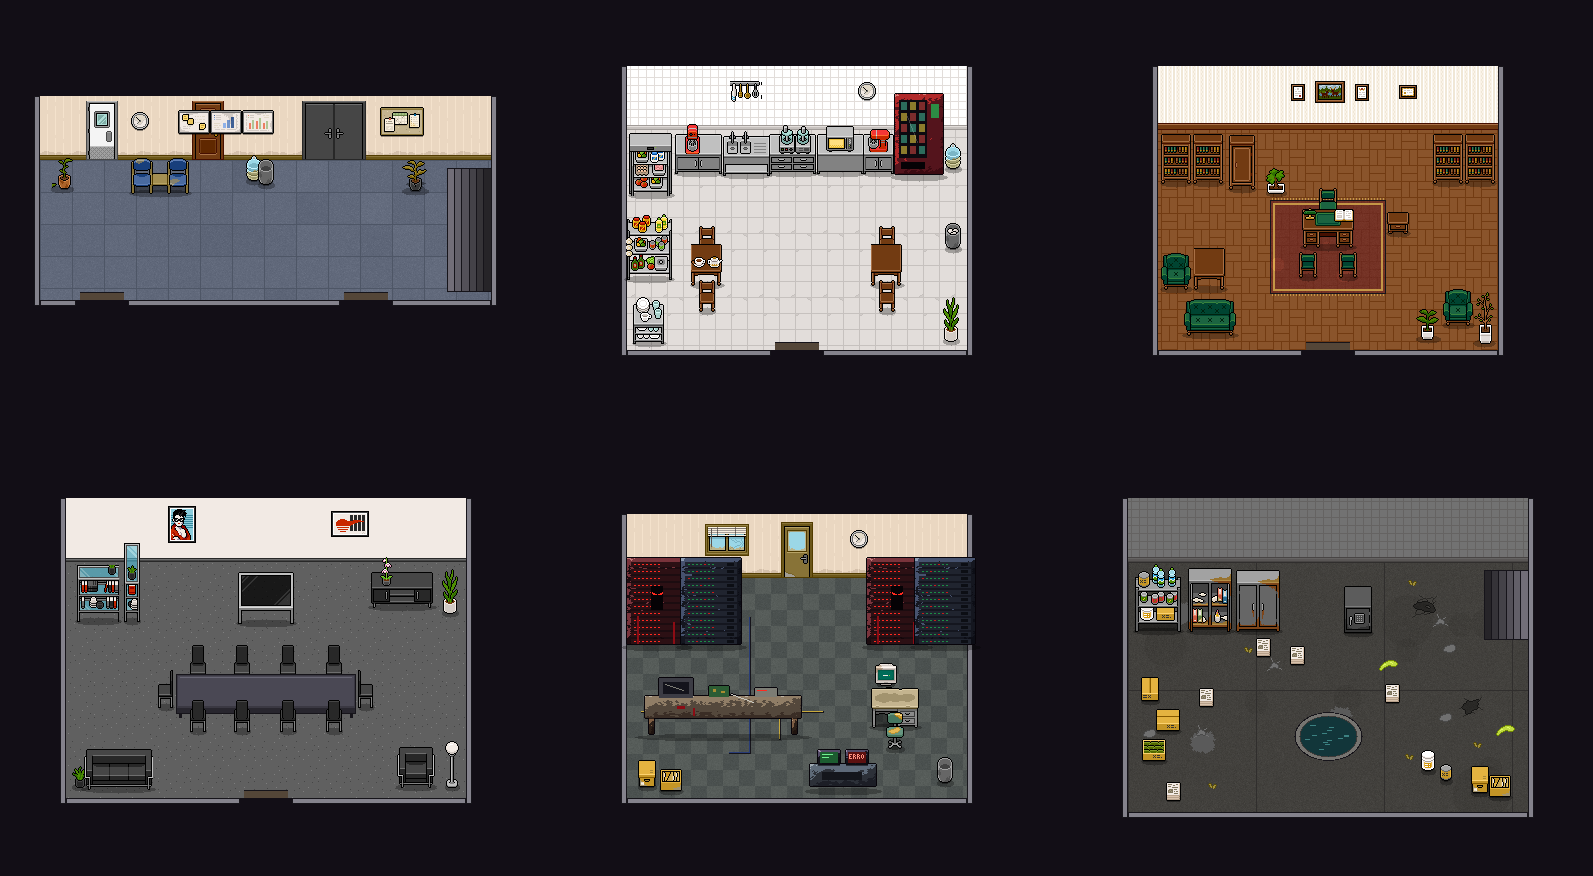
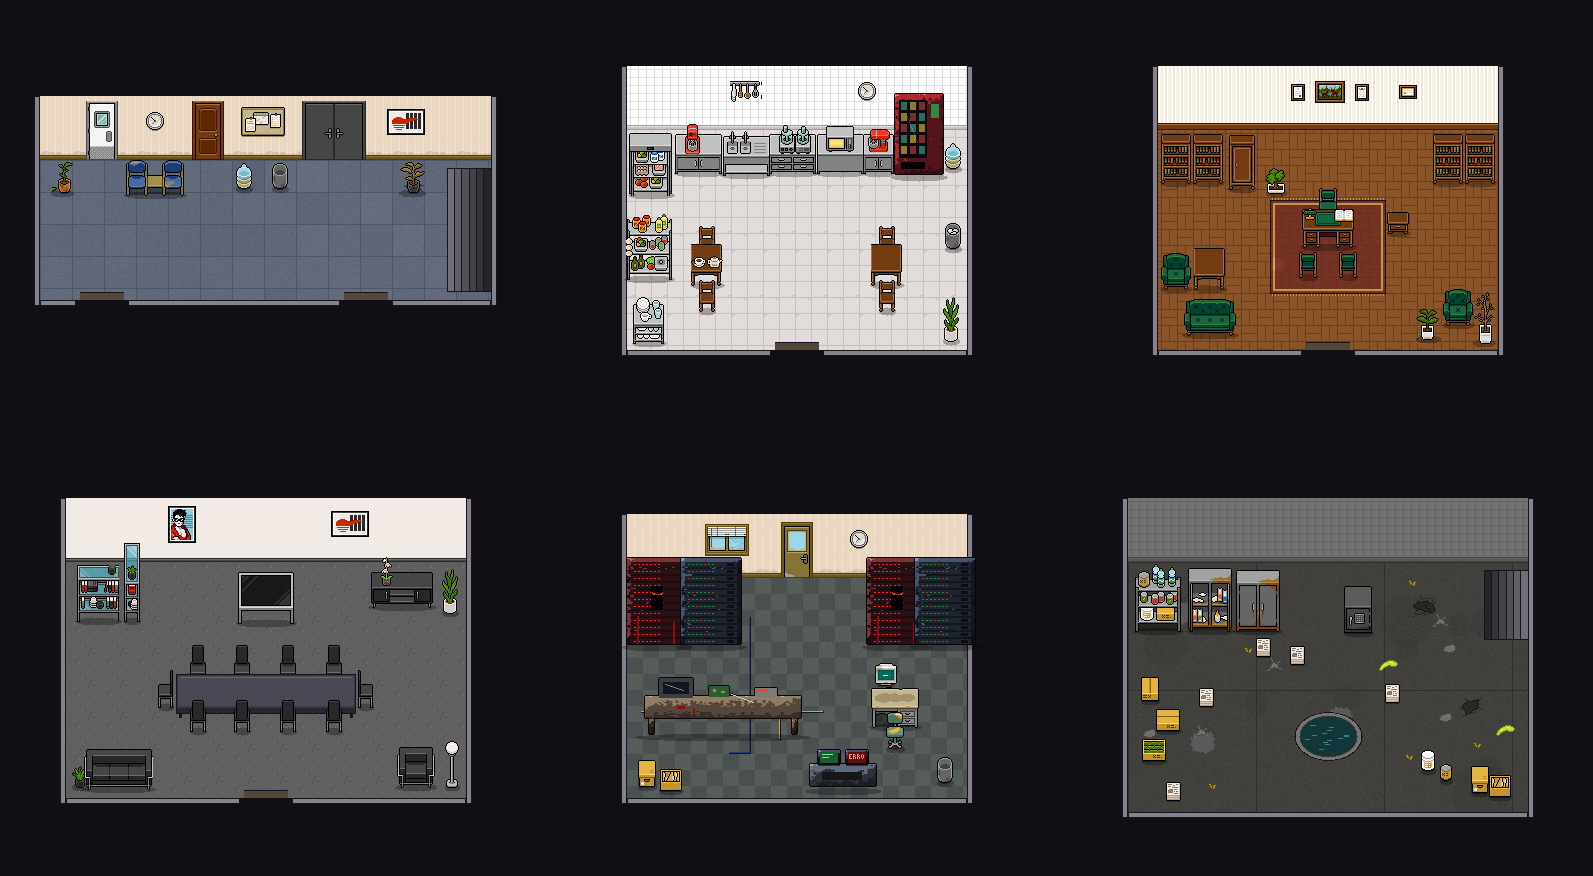
fix: reorganiza a decoracao do corredor do modo historia
Os quadros ficavam por cima da porta do RH e o garrafao e a lixeira
apareciam um sobre o outro. Agora cada quadro fica num trecho de parede
entre as portas e os moveis do chao tem espaco entre si.

Changed region(s): [[0.0308, 0.1233, 0.1846, 0.2466], [0.2153, 0.1233, 0.2768, 0.1541], [0.2461, 0.1849, 0.2768, 0.2158]]

diff --git a/tools/historia/gerar_comodos.py b/tools/historia/gerar_comodos.py
@@ -90,11 +90,12 @@ COMODOS = {
             ("ti", "baixo", 300, 52, "ti", "corredor", "TI"),
             ("porao", "escada", 0, 44, "porao", "corredor", "PORÃO"),
         ],
+        # Parede livre entre as portas: 0-46, 78-152, 184-262 e 326-407 (depois vem a escada)
         "moveis": [
-            ("planta_laranja", 22, 30, True), ("longarina", 120, 34, True), ("lixeira_1", 226, 26, True),
-            ("planta_cinza", 375, 32, True), ("garrafao", 214, 22, True),
+            ("planta_laranja", 22, 34, True), ("longarina", 115, 36, True), ("garrafao", 204, 30, True),
+            ("lixeira_1", 240, 30, True), ("planta_cinza", 372, 34, True),
         ],
-        "na_parede": [("relogio", 100), ("graficos", 186), ("mural", 362)],
+        "na_parede": [("relogio", 115), ("mural", 223), ("mod_quadro_3", 366)],
         "tapete": None,
     },
     # Copa: pacote Professional Kitchen. Bancada no fundo (geladeira, pia, micro-ondas, cafeteira) e duas mesinhas.

diff --git a/code/src/game/rooms_data.h b/code/src/game/rooms_data.h
@@ -22,11 +22,11 @@ static const Rectangle room_obstacles_corredor[] = {
     {149.0f, 190.0f, 104.0f, 248.0f},
     {253.0f, 162.0f, 198.0f, 276.0f},
     {355.0f, -118.0f, 8.0f, 196.0f},
-    {-425.1f, -77.2f, 36.1f, 19.2f},
-    {-260.9f, -71.6f, 99.8f, 21.6f},
-    {-12.8f, -82.2f, 27.5f, 16.2f},
-    {277.5f, -73.2f, 43.0f, 19.2f},
-    {-36.8f, -90.2f, 27.5f, 16.2f},
+    {-425.1f, -69.2f, 36.1f, 19.2f},
+    {-270.9f, -67.6f, 99.8f, 21.6f},
+    {-56.8f, -74.2f, 27.5f, 16.2f},
+    {15.2f, -74.2f, 27.5f, 16.2f},
+    {271.5f, -69.2f, 43.0f, 19.2f},
 };
 static const room_door room_doors_corredor[] = {
     {{-379.0f, 166.0f, 104.0f, 20.0f}, ROOM_ESCRITORIO, 0, {-327.0f, 118.0f}, NORTH, "ESCRITÓRIO"},
